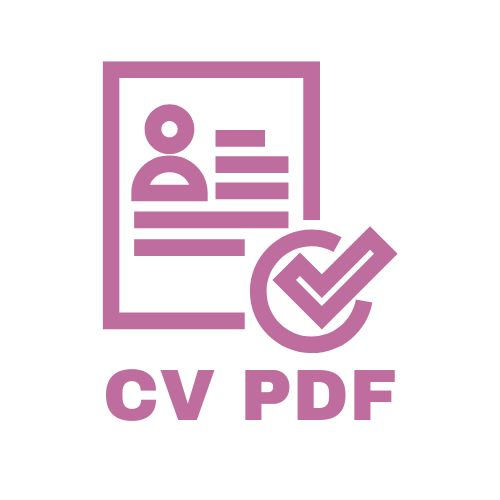
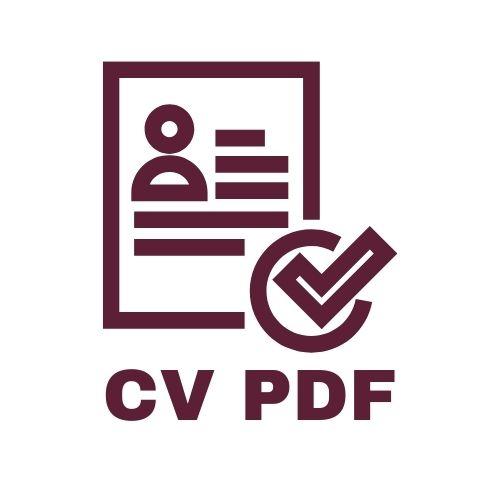
CV3D: Some frontend improvemnet -> change of pictures > changes of text colors etc.

Changed region(s): [[0.18, 0.12, 0.81, 0.84], [0.21, 0.72, 0.42, 0.84]]

diff --git a/main.js b/main.js
@@ -62,8 +62,7 @@ function title()
 			});
 			textGeo.center();
 			
-			//const textMat = new THREE.MeshBasicMaterial({ color: 0xffffff });
-			const textMat = new THREE.MeshPhongMaterial({ color:lightPink});
+			const textMat = new THREE.MeshPhongMaterial({color:lightPink});
 			textMesh = new THREE.Mesh(textGeo, textMat);
 			textMesh.position.set(0, 100, 10);
 
@@ -115,7 +114,7 @@ function homePageButton()
 
 	// Pink Frame
 	const frameGeometry = new THREE.CircleGeometry(32, 32);
-	const frameMaterial = new THREE.MeshPhongMaterial({ color: lightPink});
+	const frameMaterial = new THREE.MeshPhongMaterial({color: darkPink});
 	frameMesh = new THREE.Mesh(frameGeometry, frameMaterial);
 	frameMesh.position.set(-320, 130, 9.9); // put it in front of camera
 	scene.add(frameMesh);
@@ -255,6 +254,13 @@ function addContact()
 	cvMesh = new THREE.Mesh(buttonGeometry, buttonMaterial);
 	cvMesh.position.set(-95, -165, 10); // put it in front of camera
 	scene.add(cvMesh);
+	
+	// Pink Frame
+	const frameGeometry = new THREE.CircleGeometry(17, 32);
+	const frameMaterial = new THREE.MeshPhongMaterial({color: darkPink});
+	frameMesh = new THREE.Mesh(frameGeometry, frameMaterial);
+	frameMesh.position.set(-95, -165, 9.9); // put it in front of camera
+	scene.add(frameMesh);
 
 	// Mail
 	const loaderHeader = new FontLoader();

diff --git a/competences.js b/competences.js
@@ -189,7 +189,7 @@ function homePageButton()
 
 	// Pink Frame
 	const frameGeometry = new THREE.CircleGeometry(32, 32);
-	const frameMaterial = new THREE.MeshPhongMaterial({ color: lightPink});
+	const frameMaterial = new THREE.MeshPhongMaterial({color: darkPink});
 	frameMesh = new THREE.Mesh(frameGeometry, frameMaterial);
 	frameMesh.position.set(-320, 130, 9.9); // put it in front of camera
 	scene.add(frameMesh);

diff --git a/experience.js b/experience.js
@@ -117,7 +117,7 @@ function homePageButton()
 
 	// Pink Frame
 	const frameGeometry = new THREE.CircleGeometry(32, 32);
-	const frameMaterial = new THREE.MeshPhongMaterial({ color: lightPink});
+	const frameMaterial = new THREE.MeshPhongMaterial({color: darkPink});
 	frameMesh = new THREE.Mesh(frameGeometry, frameMaterial);
 	frameMesh.position.set(-320, 130, 9.9); // put it in front of camera
 	scene.add(frameMesh);

diff --git a/interets.js b/interets.js
@@ -131,7 +131,7 @@ function homePageButton()
 
 	// Pink Frame
 	const frameGeometry = new THREE.CircleGeometry(32, 32);
-	const frameMaterial = new THREE.MeshPhongMaterial({ color: lightPink});
+	const frameMaterial = new THREE.MeshPhongMaterial({color: darkPink});
 	frameMesh = new THREE.Mesh(frameGeometry, frameMaterial);
 	frameMesh.position.set(-320, 130, 9.9); // put it in front of camera
 	scene.add(frameMesh);

diff --git a/presentation.js b/presentation.js
@@ -148,7 +148,7 @@ function homePageButton()
 
 	// Pink Frame
 	const frameGeometry = new THREE.CircleGeometry(32, 32);
-	const frameMaterial = new THREE.MeshPhongMaterial({ color: lightPink});
+	const frameMaterial = new THREE.MeshPhongMaterial({color: darkPink});
 	frameMesh = new THREE.Mesh(frameGeometry, frameMaterial);
 	frameMesh.position.set(-320, 130, 9.9); // put it in front of camera
 	scene.add(frameMesh);

diff --git a/cursus.js b/cursus.js
@@ -118,7 +118,7 @@ function homePageButton()
 
 	// Pink Frame
 	const frameGeometry = new THREE.CircleGeometry(32, 32);
-	const frameMaterial = new THREE.MeshPhongMaterial({color: lightPink});
+	const frameMaterial = new THREE.MeshPhongMaterial({color: darkPink});
 	frameMesh = new THREE.Mesh(frameGeometry, frameMaterial);
 	frameMesh.position.set(-320, 130, 9.9); // put it in front of camera
 	scene.add(frameMesh);
